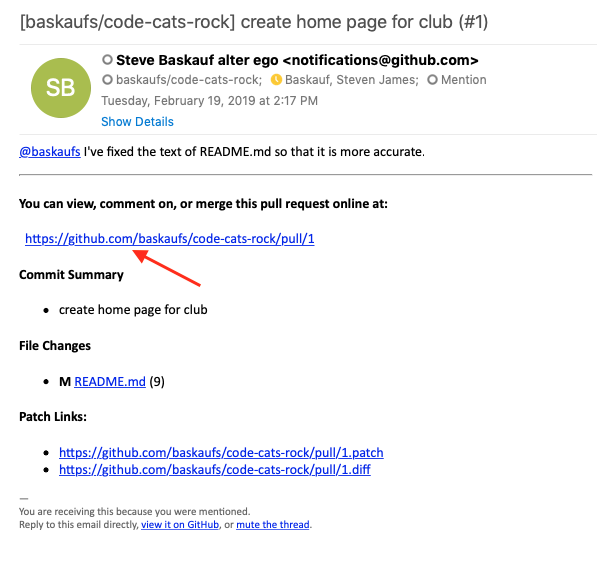
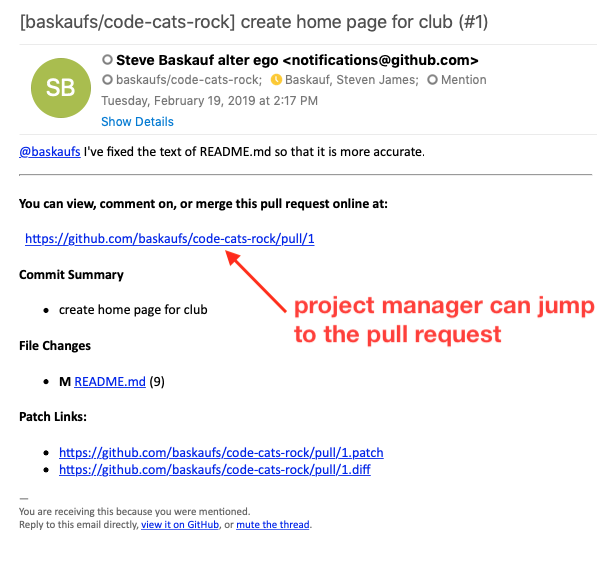
finish fork.md

Changed region(s): [[0.3618, 0.4154, 0.995, 0.623], [0.2111, 0.4154, 0.3015, 0.4747], [0.3015, 0.4747, 0.3317, 0.5044]]

diff --git a/manage/control/github/fork.md b/manage/control/github/fork.md
@@ -38,7 +38,7 @@ Here's what the forked repo page looks like now:
 
 <img src="../images-fork/changes-on-fork.png" style="border:1px solid black">
 
-Here's what the page looks like when we click on the `New pull request` button:
+Here's what the page looks like when we click on the `New pull request` button.  Notice that we have switched from the forked (head)repo to the organizational (base) repo.
 
 <img src="../images-fork/compare-changes.png" style="border:1px solid black">
 
@@ -49,6 +49,25 @@ Creating a pull request from a fork is a bit more complicated than a pull reques
 The email generated by the @mention has links to the pull request and the diff so the project manager can decide whether to accept the pull request or not.
 
 <img src="../images-fork/pull-email.png" style="border:1px solid black">
+
+Clicking on the link in the email takes the project manager to the pull request.
+
+<img src="../images-fork/pull-email.png" style="border:1px solid black">
+
+The manager can do the merge or make further comments with requests for changes.  
+
+<img src="../images-fork/manager-response.png" style="border:1px solid black">
+
+After doing the merge, the changes have been added to the original project.
+
+<img src="../images-fork/merge-complete.png" style="border:1px solid black">
+
+Back in Tomy's account, he can now decide whether he wants to keep the fork or not.  If there isn't really anything useful for him to do with it (since his changes were pulled into the main project), he can go to the settings for the repo and delete it.
+
+<img src="../images-fork/delete-repo.png" style="border:1px solid black">
+
+Note that deleting the branch will have no effect on the original repository.  Caution: do not delete the fork before the changes have been pulled into the organizational (base) repository!  If you do, it will be impossible to complete the merge.
+
 
 [next page: managing projects](../projects/)
 
